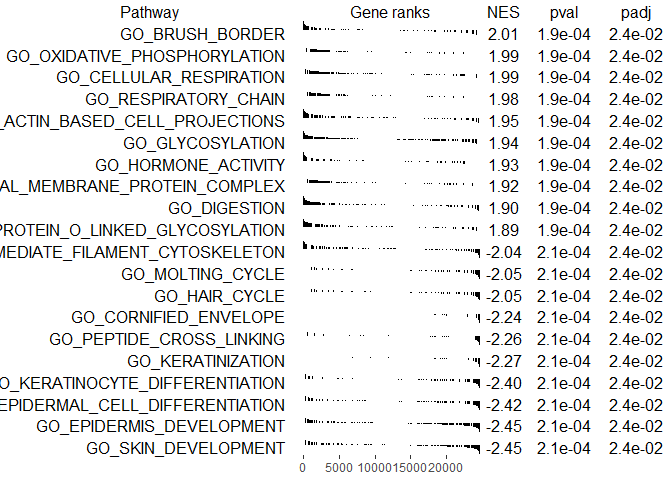
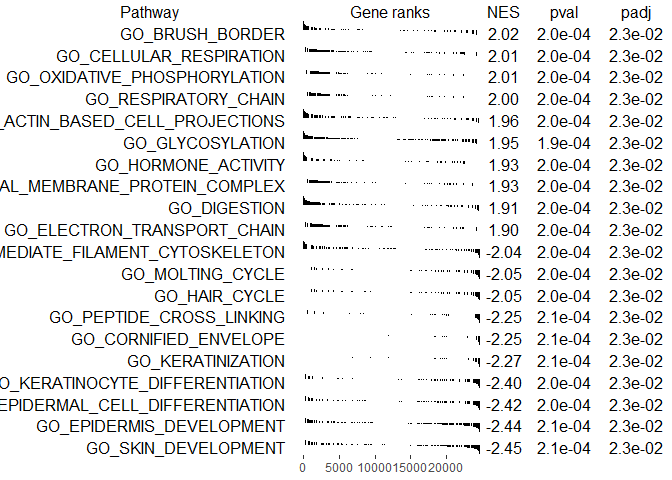
Give table of contents to GSEA

diff --git a/GSEA.md b/GSEA.md
@@ -1,6 +1,12 @@
 Gene set enrichment analysis
 ================
 
+-   [Introduction](#introduction)
+-   [2x2 (Fisher's exact) methods](#x2-fishers-exact-methods)
+-   [Camera](#camera)
+-   [Roast](#roast)
+-   [fGSEA](#fgsea)
+
 Introduction
 ------------
 
@@ -316,7 +322,8 @@ head(GO_GSEA)
 # set rankings"
 ```
 
-### Roast
+Roast
+-----
 
 ``` r
 # Roast is does simulation/rotation based tests for gene sets
@@ -328,35 +335,36 @@ head(GO_GSEA)
 ```
 
     ##                                                   NGenes  PropDown
-    ## GO_VIRAL_MEMBRANE                                      2 1.0000000
     ## GO_CORNIFIED_ENVELOPE                                 39 0.9487179
     ## GO_ACETYL_COA_BIOSYNTHETIC_PROCESS                    17 0.0000000
     ## GO_CYTOSOLIC_PROTEASOME_COMPLEX                       15 0.9333333
     ## GO_PROTEASOME_REGULATORY_PARTICLE_BASE_SUBCOMPLEX     20 0.9000000
     ## GO_OLIGOSACCHARIDE_CATABOLIC_PROCESS                  10 0.1000000
-    ##                                                      PropUp Direction
-    ## GO_VIRAL_MEMBRANE                                 0.0000000      Down
-    ## GO_CORNIFIED_ENVELOPE                             0.0000000      Down
-    ## GO_ACETYL_COA_BIOSYNTHETIC_PROCESS                0.9411765        Up
-    ## GO_CYTOSOLIC_PROTEASOME_COMPLEX                   0.0000000      Down
-    ## GO_PROTEASOME_REGULATORY_PARTICLE_BASE_SUBCOMPLEX 0.0000000      Down
-    ## GO_OLIGOSACCHARIDE_CATABOLIC_PROCESS              0.9000000        Up
+    ## GO_KERATINIZATION                                     45 0.8888889
+    ##                                                       PropUp Direction
+    ## GO_CORNIFIED_ENVELOPE                             0.00000000      Down
+    ## GO_ACETYL_COA_BIOSYNTHETIC_PROCESS                0.94117647        Up
+    ## GO_CYTOSOLIC_PROTEASOME_COMPLEX                   0.00000000      Down
+    ## GO_PROTEASOME_REGULATORY_PARTICLE_BASE_SUBCOMPLEX 0.00000000      Down
+    ## GO_OLIGOSACCHARIDE_CATABOLIC_PROCESS              0.90000000        Up
+    ## GO_KERATINIZATION                                 0.02222222      Down
     ##                                                   PValue         FDR
-    ## GO_VIRAL_MEMBRANE                                  0.001 0.001159895
-    ## GO_CORNIFIED_ENVELOPE                              0.001 0.001159895
-    ## GO_ACETYL_COA_BIOSYNTHETIC_PROCESS                 0.001 0.001159895
-    ## GO_CYTOSOLIC_PROTEASOME_COMPLEX                    0.001 0.001159895
-    ## GO_PROTEASOME_REGULATORY_PARTICLE_BASE_SUBCOMPLEX  0.001 0.001159895
-    ## GO_OLIGOSACCHARIDE_CATABOLIC_PROCESS               0.001 0.001159895
+    ## GO_CORNIFIED_ENVELOPE                              0.001 0.001168246
+    ## GO_ACETYL_COA_BIOSYNTHETIC_PROCESS                 0.001 0.001168246
+    ## GO_CYTOSOLIC_PROTEASOME_COMPLEX                    0.001 0.001168246
+    ## GO_PROTEASOME_REGULATORY_PARTICLE_BASE_SUBCOMPLEX  0.001 0.001168246
+    ## GO_OLIGOSACCHARIDE_CATABOLIC_PROCESS               0.001 0.001168246
+    ## GO_KERATINIZATION                                  0.001 0.001168246
     ##                                                   PValue.Mixed FDR.Mixed
-    ## GO_VIRAL_MEMBRANE                                        0.001     0.001
     ## GO_CORNIFIED_ENVELOPE                                    0.001     0.001
     ## GO_ACETYL_COA_BIOSYNTHETIC_PROCESS                       0.001     0.001
     ## GO_CYTOSOLIC_PROTEASOME_COMPLEX                          0.001     0.001
     ## GO_PROTEASOME_REGULATORY_PARTICLE_BASE_SUBCOMPLEX        0.001     0.001
     ## GO_OLIGOSACCHARIDE_CATABOLIC_PROCESS                     0.001     0.001
+    ## GO_KERATINIZATION                                        0.001     0.001
 
-### fGSEA
+fGSEA
+-----
 
 ``` r
 library(fgsea)
@@ -387,19 +395,19 @@ fg %>%
 ```
 
     ##                             pathway         pval       padj         ES
-    ## 1               GO_SKIN_DEVELOPMENT 0.0002063983 0.02391202 -0.8162399
-    ## 2          GO_EPIDERMIS_DEVELOPMENT 0.0002061856 0.02391202 -0.7990252
-    ## 3 GO_EPIDERMAL_CELL_DIFFERENTIATION 0.0002073828 0.02391202 -0.8516500
-    ## 4   GO_KERATINOCYTE_DIFFERENTIATION 0.0002083767 0.02391202 -0.8876360
-    ## 5                 GO_KERATINIZATION 0.0002075981 0.02391202 -0.9519643
-    ## 6          GO_PEPTIDE_CROSS_LINKING 0.0002070393 0.02391202 -0.9344004
+    ## 1               GO_SKIN_DEVELOPMENT 0.0002058884 0.02262184 -0.8162399
+    ## 2          GO_EPIDERMIS_DEVELOPMENT 0.0002055498 0.02262184 -0.7990252
+    ## 3 GO_EPIDERMAL_CELL_DIFFERENTIATION 0.0002031694 0.02262184 -0.8516500
+    ## 4   GO_KERATINOCYTE_DIFFERENTIATION 0.0002044990 0.02262184 -0.8876360
+    ## 5                 GO_KERATINIZATION 0.0002066970 0.02262184 -0.9519643
+    ## 6             GO_CORNIFIED_ENVELOPE 0.0002054232 0.02262184 -0.9699700
     ##         NES nMoreExtreme size
-    ## 1 -2.449594            0  170
-    ## 2 -2.447874            0  203
-    ## 3 -2.421199            0  112
-    ## 4 -2.400265            0   80
-    ## 5 -2.274181            0   37
-    ## 6 -2.255952            0   39
+    ## 1 -2.448374            0  170
+    ## 2 -2.441195            0  203
+    ## 3 -2.422710            0  112
+    ## 4 -2.402845            0   80
+    ## 5 -2.271879            0   37
+    ## 6 -2.254186            0   31
 
 ``` r
 # plot individual pathway
